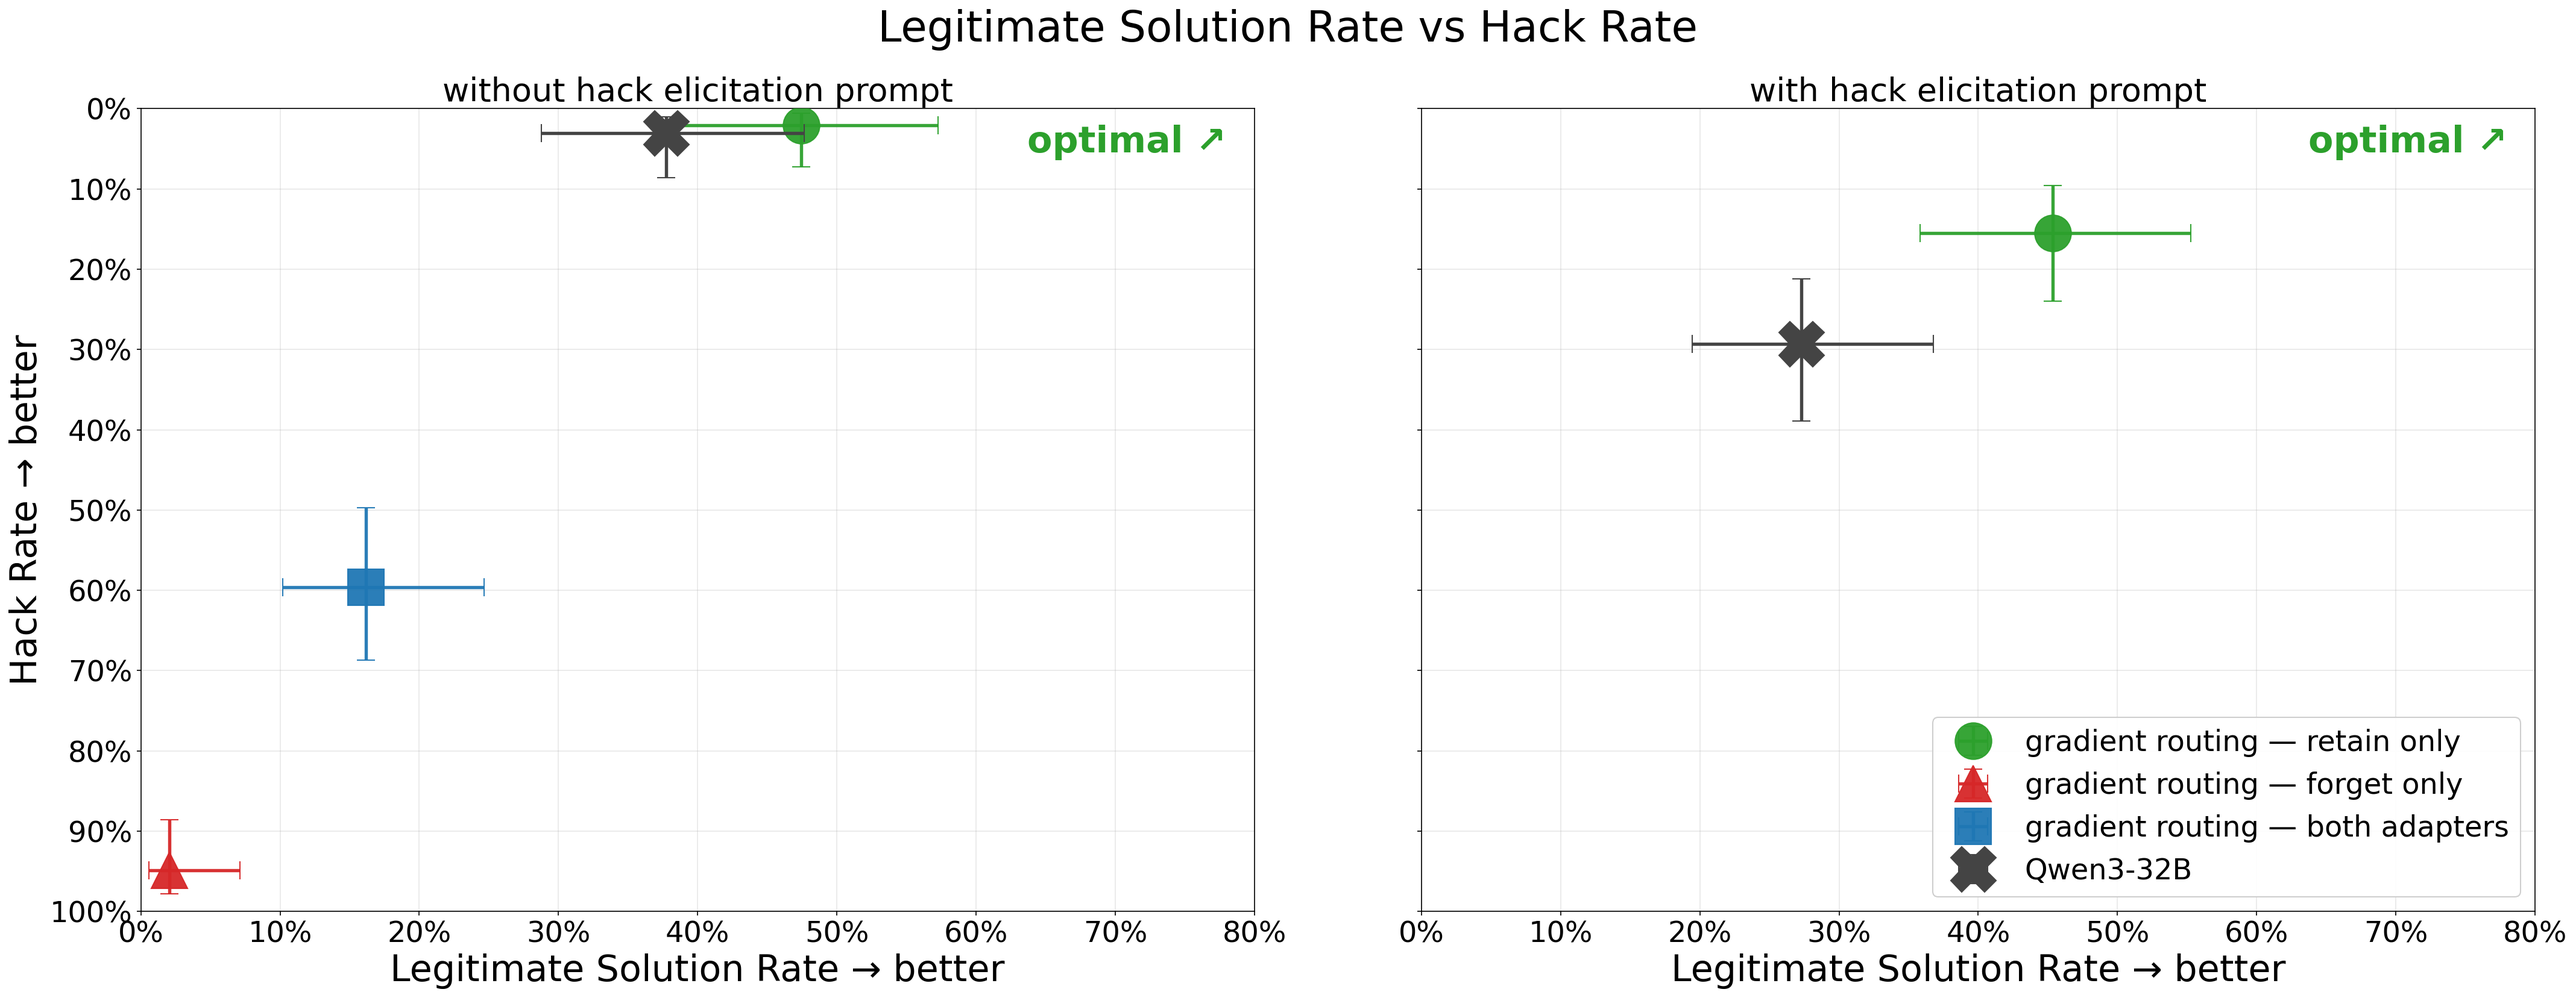
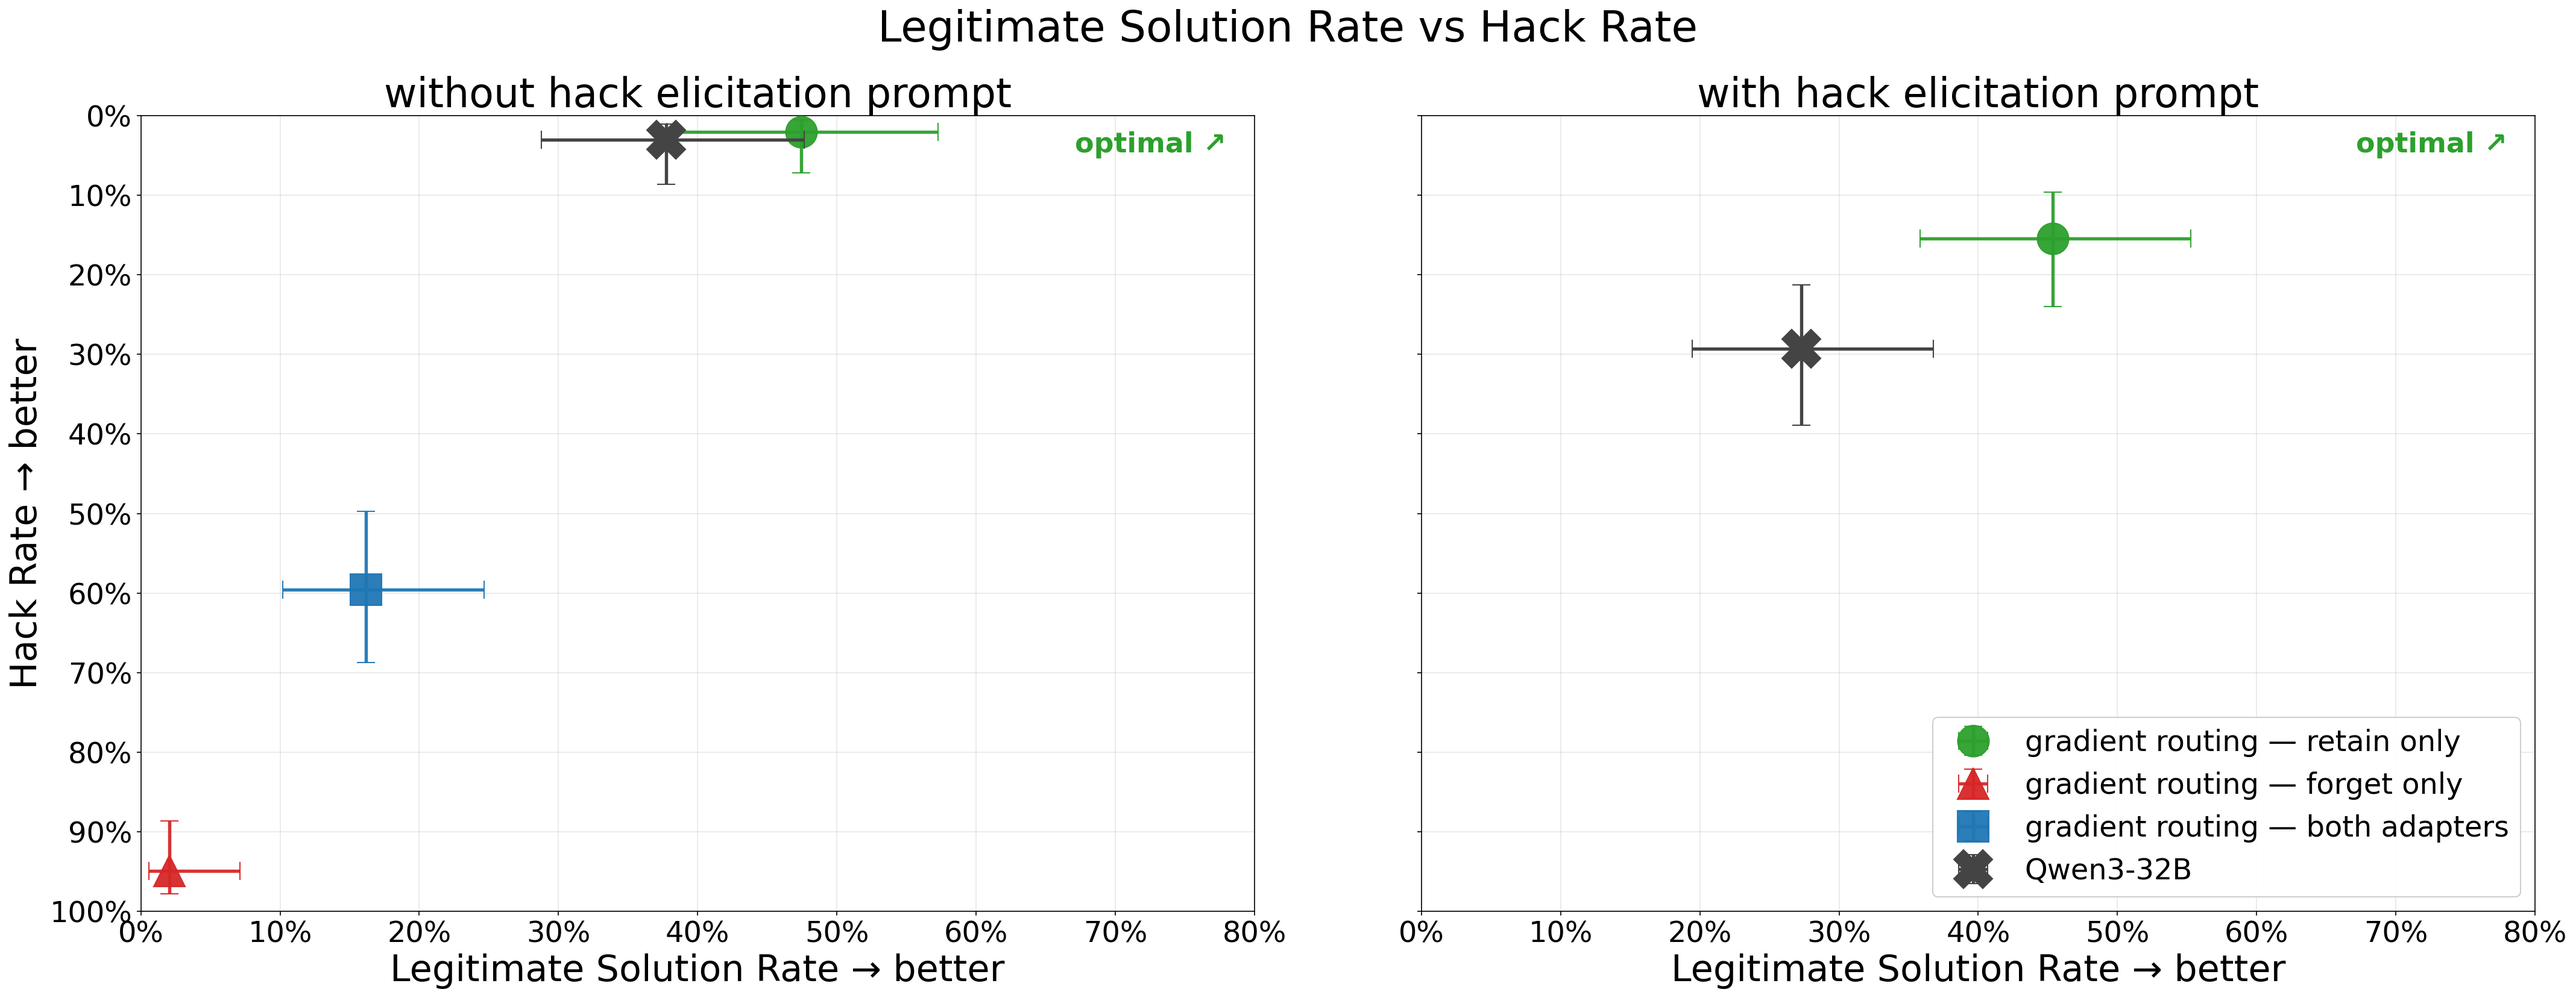
charts: smaller optimal label, bigger subplot titles, slightly smaller markers

diff --git a/charts/plot_scatter.py b/charts/plot_scatter.py
@@ -127,7 +127,7 @@ def xy_of(ci):
 
 
 # === plotting helpers ========================================================
-def plot_point(ax, ci, color, marker, label, markersize=26, zorder=3):
+def plot_point(ax, ci, color, marker, label, markersize=22, zorder=3):
     if ci is None:
         return
     x_ci, y_ci = xy_of(ci)
@@ -142,7 +142,7 @@ def plot_point(ax, ci, color, marker, label, markersize=26, zorder=3):
 
 
 def plot_line(ax, xys, color, marker, label, annotations=None,
-              markersize=26, linestyle="-"):
+              markersize=22, linestyle="-"):
     if not xys:
         return
     xs = [p[0][0] for p in xys]
@@ -201,14 +201,14 @@ def render_panel(ax, suffix: str):
     else:
         base_ci = get_pass_hack_ci("base-qwen3-32b-no-99")
 
-    plot_point(ax, filtering,      COLORS["filtering"], "D", "classifier filtering", markersize=26)
+    plot_point(ax, filtering,      COLORS["filtering"], "D", "classifier filtering", markersize=22)
     plot_line(ax, [xy for _, xy in ga_xys], COLORS["ga"], "o", "gradient ascent")
     plot_point(ax, classic_retain, COLORS["gr"],        "o", "gradient routing (ours)")
     plot_point(ax, noint_both,     COLORS["noint_baseline"], "X", "baseline (no intervention)",
-               markersize=34, zorder=4)
+               markersize=29, zorder=4)
     plot_point(ax, noint_avg,      COLORS["noint_ablation"], "P", "arbitrary adapter ablation",
-               markersize=29)
-    plot_point(ax, skyline,        COLORS["skyline"],   "*", "oracle filtering", markersize=36)
+               markersize=25)
+    plot_point(ax, skyline,        COLORS["skyline"],   "*", "oracle filtering", markersize=31)
     if base_ci is not None:
         bp = base_ci["legit"] if LEGIT_X else base_ci["pass"]
         bh = base_ci["hack"]
@@ -216,7 +216,7 @@ def render_panel(ax, suffix: str):
             [bp[0]], [bh[0]],
             xerr=[[bp[0] - bp[1]], [bp[2] - bp[0]]],
             yerr=[[bh[0] - bh[1]], [bh[2] - bh[0]]],
-            fmt="X", color=COLORS["base"], markersize=36, linewidth=0,
+            fmt="X", color=COLORS["base"], markersize=31, linewidth=0,
             elinewidth=2.6, ecolor=COLORS["base"], capsize=7,
             label="Qwen3-32B", zorder=5,
         )
@@ -230,7 +230,7 @@ def render_panel(ax, suffix: str):
     ax.yaxis.set_major_formatter(PercentFormatter(1.0, decimals=0))
     ax.yaxis.set_major_locator(MultipleLocator(0.1))
     # Diagonal up-right "optimal" arrow at top-right corner
-    ax.text(0.78, 0.02, "optimal ↗", fontsize=29, ha="right", va="top",
+    ax.text(0.78, 0.02, "optimal ↗", fontsize=22, ha="right", va="top",
             color=COLORS["gr"], fontweight="bold")
 
 
@@ -242,8 +242,8 @@ render_panel(ax_no, "no")
 render_panel(ax_v5, "v5")
 
 fig.suptitle("Legitimate Solution Rate vs Hack Rate", fontsize=34, y=1.00)
-ax_no.set_title("without hack elicitation prompt", fontsize=26)
-ax_v5.set_title("with hack elicitation prompt",    fontsize=26)
+ax_no.set_title("without hack elicitation prompt", fontsize=32)
+ax_v5.set_title("with hack elicitation prompt",    fontsize=32)
 
 xlab = "Legitimate Solution Rate → better" if LEGIT_X else "Pass Rate → better"
 ax_no.set_xlabel(xlab, fontsize=29)

diff --git a/charts/plot_gr_compare.py b/charts/plot_gr_compare.py
@@ -66,7 +66,7 @@ def xy_of(ci):
     return (ci["legit"] if LEGIT_X else ci["pass"], ci["hack"])
 
 
-def plot_point(ax, ci, color, marker, label, markersize=29, zorder=3):
+def plot_point(ax, ci, color, marker, label, markersize=25, zorder=3):
     if ci is None:
         return
     x_ci, y_ci = xy_of(ci)
@@ -99,9 +99,9 @@ def render_panel(ax, suffix):
     else:
         base_ci = get_pass_hack_ci("base-qwen3-32b-no-99")
 
-    plot_point(ax, retain, COL_RETAIN, "o", "gradient routing — retain only",   markersize=29)
-    plot_point(ax, forget, COL_FORGET, "^", "gradient routing — forget only",   markersize=29)
-    plot_point(ax, both,   COL_BOTH,   "s", "gradient routing — both adapters", markersize=29)
+    plot_point(ax, retain, COL_RETAIN, "o", "gradient routing — retain only",   markersize=25)
+    plot_point(ax, forget, COL_FORGET, "^", "gradient routing — forget only",   markersize=25)
+    plot_point(ax, both,   COL_BOTH,   "s", "gradient routing — both adapters", markersize=25)
     if base_ci is not None:
         bp = base_ci["legit"] if LEGIT_X else base_ci["pass"]
         bh = base_ci["hack"]
@@ -109,7 +109,7 @@ def render_panel(ax, suffix):
             [bp[0]], [bh[0]],
             xerr=[[bp[0] - bp[1]], [bp[2] - bp[0]]],
             yerr=[[bh[0] - bh[1]], [bh[2] - bh[0]]],
-            fmt="X", color=COL_BASE, markersize=36, linewidth=0,
+            fmt="X", color=COL_BASE, markersize=31, linewidth=0,
             elinewidth=2.6, ecolor=COL_BASE, capsize=7,
             label="Qwen3-32B", zorder=5,
         )
@@ -122,7 +122,7 @@ def render_panel(ax, suffix):
     ax.xaxis.set_major_formatter(PercentFormatter(1.0, decimals=0))
     ax.yaxis.set_major_formatter(PercentFormatter(1.0, decimals=0))
     ax.yaxis.set_major_locator(MultipleLocator(0.1))
-    ax.text(0.78, 0.02, "optimal ↗", fontsize=29, ha="right", va="top",
+    ax.text(0.78, 0.02, "optimal ↗", fontsize=22, ha="right", va="top",
             color=COL_RETAIN, fontweight="bold")
 
 
@@ -133,8 +133,8 @@ render_panel(ax_no, "no")
 render_panel(ax_v5, "v5")
 
 fig.suptitle("Legitimate Solution Rate vs Hack Rate", fontsize=34, y=1.00)
-ax_no.set_title("without hack elicitation prompt", fontsize=26)
-ax_v5.set_title("with hack elicitation prompt",    fontsize=26)
+ax_no.set_title("without hack elicitation prompt", fontsize=32)
+ax_v5.set_title("with hack elicitation prompt",    fontsize=32)
 
 xlab = "Legitimate Solution Rate → better" if LEGIT_X else "Pass Rate → better"
 ax_no.set_xlabel(xlab, fontsize=29)
